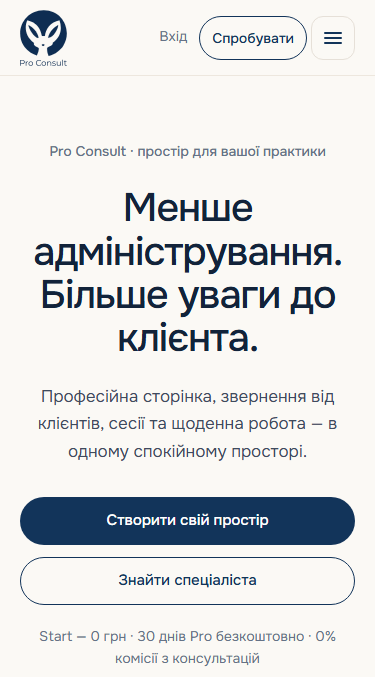
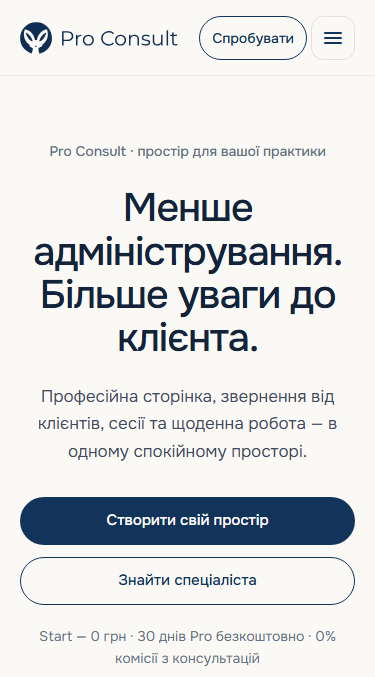
fix(ui-v2): restore horizontal header brand lockup

Changed region(s): [[0.0293, 0.0, 0.2347, 0.0931], [0.264, 0.031, 0.4987, 0.0931]]

diff --git a/src/styles/uiV2.spec.ts b/src/styles/uiV2.spec.ts
@@ -52,13 +52,13 @@ describe('UI v2 CSS contract', () => {
     }
   })
 
-  it('isolates public footer resets, accessible links and the approved stacked lockup', () => {
+  it('isolates public footer resets, accessible links and the separate header/footer lockups', () => {
     const footer = declarations(`${gate} .shell .footer.pc2-footer`)
     expect(footer.background).toBe('var(--pc-bg-main)')
     expect(footer['box-shadow']).toBe('none')
     expect(footer['border-top']).toContain('var(--pc-border-hair)')
     expect(contrast(vars['--pc-text-muted']!, vars['--pc-bg-main']!)).toBeGreaterThanOrEqual(4.5)
-    expect(declarations(`${gate} .pc2-header.topbar--guest .pc2-brand-lockup`).height).toBe('calc(var(--pc-header-logo-h) + var(--pc-space-4))')
+    expect(declarations(`${gate} .pc2-header.topbar--guest .pc2-brand-lockup`).height).toBe('var(--pc-space-8)')
     const selector = `${gate} .pc2-header.topbar--guest .nav a.pc2-header__cta`
     for (const state of ['', ':hover', ':active']) {
       const style = { ...declarations(selector), ...declarations(`${selector}${state}`) }
@@ -79,6 +79,25 @@ describe('UI v2 CSS contract', () => {
       expect(svg).toContain('<path')
       expect(svg).toContain('#0e2d52')
     }
+  })
+
+  it('composes a horizontal header from unchanged approved symbol paths and glyphs', () => {
+    const parse = (name: string) => new DOMParser().parseFromString(read(`src/assets/brand-v2/${name}.svg`), 'image/svg+xml')
+    const header = parse('proconsult-fennec-header')
+    const footer = parse('proconsult-fennec-lockup')
+    const symbol = parse('proconsult-fennec-symbol-blue')
+    expect(header.querySelector('parsererror')).toBeNull()
+    const parts = header.querySelectorAll('svg[data-brand-part]')
+    expect(parts).toHaveLength(2)
+    expect(parts[0]!.getAttribute('x')).toBe('0')
+    expect(parts[1]!.getAttribute('x')).toBe('52')
+    expect(parts[1]!.getAttribute('y')).toBe('10')
+    const attributes = (selector: string, root: ParentNode) => Array.from(root.querySelectorAll(selector), (node) =>
+      Object.fromEntries(Array.from(node.attributes, (attr) => [attr.name, attr.value])))
+    expect(attributes('path', parts[0]!)).toEqual(attributes('path', symbol))
+    expect(attributes('use', parts[1]!)).toEqual(attributes('use', footer))
+    expect(attributes('defs path', header)).toEqual(attributes('defs path', footer))
+    expect(header.querySelector('text')).toBeNull()
   })
 
   it('gates every selector branch, including nested media queries, away from v1', () => {

diff --git a/src/App.vue b/src/App.vue
@@ -14,7 +14,7 @@
     <header v-if="!useMinimalShell" :class="topbarClass">
       <div class="topbar__inner">
         <RouterLink class="brand" to="/">
-          <img v-if="usePublicHeaderV2" class="pc2-brand-lockup pc2-header__logo" :src="fennecLockup" alt="Pro Consult" />
+          <img v-if="usePublicHeaderV2" class="pc2-brand-lockup pc2-header__logo" :src="fennecHeader" alt="Pro Consult" />
           <span v-else class="brand__logo-frame">
             <img class="brand__logo brand__logo--full" :class="{ 'pc2-header__logo': usePublicHeaderV2 }" src="/brand/proconsult-logo-dark.png" alt="Pro Consult" />
             <img class="brand__logo brand__logo--mark" src="/brand/proconsult-mark.png" alt="Pro Consult" />
@@ -66,7 +66,7 @@
           Публічний профіль
         </RouterLink>
         <RouterLink v-if="!isAuthenticated && !isSpecialistOwnedSurface" class="nav__desktop-only" :class="{ 'pc2-header__link': usePublicHeaderV2 }" to="/pricing">Тарифи</RouterLink>
-        <RouterLink v-if="!isAuthenticated" :class="{ 'pc2-header__link': usePublicHeaderV2 }" to="/login">Вхід</RouterLink>
+        <RouterLink v-if="!isAuthenticated" :class="{ 'pc2-header__link pc2-header__login': usePublicHeaderV2 }" to="/login">Вхід</RouterLink>
         <RouterLink v-if="!isAuthenticated && !isSpecialistOwnedSurface" class="nav__guest-cta" :class="{ 'pc2-btn pc2-btn--primary pc2-header__cta': usePublicHeaderV2 }" to="/signup">
           <span class="nav__guest-cta-full">Спробувати безкоштовно</span>
           <span class="nav__guest-cta-short">Спробувати</span>
@@ -588,6 +588,7 @@ import { useRoute, useRouter } from 'vue-router'
 import { useAuthStore } from './stores/auth'
 import { isUiV2 } from './lib/uiVersion'
 import fennecLockup from './assets/brand-v2/proconsult-fennec-lockup.svg'
+import fennecHeader from './assets/brand-v2/proconsult-fennec-header.svg'
 import fennecSymbol from './assets/brand-v2/proconsult-fennec-symbol-blue.svg'
 import ToastHost from './components/ToastHost.vue'
 import ScrollToTopButton from './components/ScrollToTopButton.vue'

diff --git a/src/styles/components-v2.css b/src/styles/components-v2.css
@@ -217,10 +217,10 @@ html[data-ui="v2"] .pc2-input:focus-visible {
   outline-offset: var(--pc-focus-offset);
 }
 
-/* KAN-158 public brand override: approved fennec lockup retains its original
-   stacked composition and outlined Montserrat. Never affects v1/auth chrome. */
+/* KAN-158 public brand override: approved fennec and outlined Montserrat retain their geometry.
+   Header composition is horizontal; the original stacked footer stays intact. Never affects v1/auth chrome. */
 html[data-ui="v2"] .pc2-header.topbar--guest .pc2-brand-lockup {
-  display: block; height: calc(var(--pc-header-logo-h) + var(--pc-space-4));
+  display: block; height: var(--pc-header-logo-h);
   width: auto; max-width: none; flex-shrink: 0;
 }
 html[data-ui="v2"] .pc2-header.topbar--guest .nav a.pc2-header__cta {
@@ -296,7 +296,7 @@ html[data-ui="v2"] .footer .footer__logo.pc2-footer__compact-logo { height: var(
   }
   html[data-ui="v2"] .pc2-header.topbar--guest .pc2-header__audience { order: 0; flex-basis: auto; }
 }
-@media (max-width: 900px) {
+@media (max-width: 1100px) {
   html[data-ui="v2"] .pc2-header.topbar--guest .pc2-header__audience,
   html[data-ui="v2"] .pc2-header.topbar--guest .pc2-header__actions .nav__guest-catalog,
   html[data-ui="v2"] .pc2-header.topbar--guest .pc2-header__actions .nav__desktop-only { display: none; }
@@ -321,4 +321,10 @@ html[data-ui="v2"] .pc2-footer a,
 html[data-ui="v2"] .pc2-footer button {
   transition-property: color, background-color, border-color;
   transition-duration: var(--pc-dur-fast);
+}
+
+/* Preserve readable outlined type and room for the existing CTA/menu on phones. */
+@media (max-width: 640px) {
+  html[data-ui="v2"] .pc2-header.topbar--guest .pc2-brand-lockup { height: var(--pc-space-8); }
+  html[data-ui="v2"] .pc2-header.topbar--guest .pc2-header__actions .pc2-header__login { display: none; }
 }

diff --git a/src/__tests__/app.spec.ts b/src/__tests__/app.spec.ts
@@ -299,7 +299,7 @@ describe('App shell', () => {
     expect(within(header).getByRole('link', { name: 'Тарифи' })).toHaveAttribute('href', '/pricing')
     expect(within(header).getByRole('link', { name: 'Знайти спеціаліста' })).toHaveAttribute('href', '/specialists')
     expect(within(header).getByRole('link', { name: /Спробувати безкоштовно/ })).toHaveClass('pc2-btn', 'pc2-btn--primary')
-    expect(header.querySelector('.pc2-header__logo')?.getAttribute('src')).toContain('proconsult-fennec-lockup.svg')
+    expect(header.querySelector('.pc2-header__logo')?.getAttribute('src')).toContain('proconsult-fennec-header.svg')
     expect(within(header).queryByRole('button', { name: 'Меню' })).not.toBeInTheDocument()
   })
 

diff --git a/docs/ui-v2/brand/approved-fennec-2026-10-23/README.md b/docs/ui-v2/brand/approved-fennec-2026-10-23/README.md
@@ -15,18 +15,37 @@ Exact approved references retained here:
 
 PyMuPDF vector conversion (`get_svg_image(text_as_path=True)`) keeps source viewBox, all path coordinates, glyph outlines/positions, paint, strokes, transforms and negative space. Only whitespace/version/unused Inkscape layer metadata is removed. No tracing, rounding, simplified geometry, substituted font, raster logo or external font dependency. Outlined Montserrat applies to the supplied wordmark only; UI remains Onest. SVG paths/transforms/paint match the converter's original vector output exactly; PDF→SVG raster MAE at 3× is 0.348/255 lockup and 0.172/255 symbol (renderer antialiasing).
 
-Runtime assets are separately named `src/assets/brand-v2/proconsult-fennec-lockup.svg` and `proconsult-fennec-symbol-blue.svg`. Existing public/brand files, favicons, application icons and source snapshots are untouched. SVG is rendered only in guest v2 public chrome; authenticated and minimal shells retain existing presentation.
+The original stacked footer and blue-symbol assets are unchanged. A separate `src/assets/brand-v2/proconsult-fennec-header.svg` reuses their original vector components horizontally for the header. Runtime assets are separately named `src/assets/brand-v2/proconsult-fennec-lockup.svg` and `proconsult-fennec-symbol-blue.svg`. Existing public/brand files, favicons, application icons and source snapshots are untouched. SVG is rendered only in guest v2 public chrome; authenticated and minimal shells retain existing presentation.
 
 ## Scope / justified reference differences
 
 - App.vue uses the existing reactive UI flag. V1 and authenticated markup/controls retain their legacy branches. No routes/API/stores/permission/registration/Home/Profile/Discovery/Dashboard logic changes.
 - Header remains 76px, cream/hairline/Onest, audience navigation and current routes. Primary CTA uses Claude's outlined idle state and navy hover/active; current CTA wording/destination is preserved.
-- The final primary PDF is vertically stacked, unlike the old horizontal Claude logo. Preserve its complete approved composition at 56px total header height and 80px footer height, rather than distorting it into a horizontal mark or replacing its typography. The old 40px logo token remains unchanged; public lockup uses that token plus 16px. Footer watermark uses the exact approved blue symbol with decorative opacity, without recoloring/retracing it.
-- At 900px and below, a semantic disclosure navigation preserves all working public links. Native button, aria-controls/expanded, Enter/Space/Tab/Shift+Tab, Escape focus return, outside click and route/version-change closure. Existing authenticated mobile menu remains unchanged.
+- The initial implementation used the full stacked PDF at 56px in the header. The user requested a horizontal correction: unchanged symbol on the left and original outlined wordmark on the right, independently uniformly scaled/positioned. Header asset is 40px on desktop and 32px on phones; painted wordmark height is 20px/16px. No tiny wordmark remains under the header symbol. Footer retains the original 80px stacked lockup and exact blue decorative symbol without recoloring/retracing.
+- At 1100px and below, a semantic disclosure navigation preserves all working public links. Native button, aria-controls/expanded, Enter/Space/Tab/Shift+Tab, Escape focus return, outside click and route/version-change closure. Existing authenticated mobile menu remains unchanged.
 - Compact v2 footer follows the Claude cream/hairline/brand/legal-link arrangement. Extra existing product/registration links, disclaimer and privacy-preference action remain available rather than disappearing. Specialist-owned public pages retain compact legal-only content and promotion restrictions.
 - `/for-clients` is deferred to KAN-156: keep working `/#client-entry-title`. Prototype global Blog footer link has no generic current destination; no fabricated route is added. Do not apply future Public Profile/editor/support changes. KAN-160 stays HOLD; pending #54–#57/#59 and backend #63 are untouched. Backend #63's existing CI billing limitation is not resolved by this task.
 
-## Executed validation
+## Header logo correction — current acceptance
+
+The user-approved horizontal header composition supersedes the initial stacked-header decision. It uses original blue symbol paths and the primary PDF's exact Montserrat glyph outlines/positions. Nested outer viewports provide uniform scale/translation; no component path, stroke, color or negative space is redrawn. The stacked footer SVG remains byte-identical.
+
+On phones the inline duplicate login link is hidden; the same existing /login action remains available in the accessible mobile menu. The disclosure breakpoint is 1100px to accommodate the wider logo. No route, CTA destination/wording, footer behavior or v1 style changed.
+
+- App/CSS focused tests: **90/90 PASS**, including unchanged source path/glyph comparisons and distinct header/footer assets.
+- Build: **PASS**, existing chunk warning only. Typecheck: **9 unchanged baseline errors, 0 new**.
+- Chromium fixture checks: **375×677, 768×900, 1280×900, 1440×900 PASS**; header remains 76px, wordmark is horizontal/readable, no overflow, CTA/menu/focus/refresh/history retained.
+- V1 full-page screenshots and v2 footer element screenshots are **pixel-identical** before/after on all four widths. Legacy reveal transitions are settled before v1 comparison; footer capture excludes sticky-header occlusion.
+- [Correction evidence](evidence/header-correction/ACCEPTANCE.json).
+
+| Width | Before | After |
+| --- | --- | --- |
+| 375 | [Before](evidence/header-correction/before-375.png) | [After](evidence/header-correction/after-375.png) |
+| 768 | [Before](evidence/header-correction/before-768.png) | [After](evidence/header-correction/after-768.png) |
+| 1280 | [Before](evidence/header-correction/before-1280.png) | [After](evidence/header-correction/after-1280.png) |
+| 1440 | [Before](evidence/header-correction/before-1440.png) | [After](evidence/header-correction/after-1440.png) |
+
+## Initial implementation validation (before the header correction)
 
 - Focused Vitest: **115/115 PASS**, four files: App, UI v2 CSS, uiVersion and bootstrap. Includes v2 disclosure/footer/legacy restoration, role/minimal/specialist-owned boundaries and well-formed self-contained SVG checks.
 - `npm run typecheck -- --force`: **9 existing baseline diagnostics, 0 new**, independently reproduced at the exact 8754abc baseline. Existing diagnostics are in specialistDiscoveryApi.spec.ts, AdminWorkQueueView.spec.ts/vue and TherapistClientsView.spec.ts/vue. No unrelated debt fixed.

diff --git a/docs/DESIGN_SYSTEM.md b/docs/DESIGN_SYSTEM.md
@@ -2,7 +2,7 @@
 
 ## Approved UI v2 brand override — KAN-158 (2026-10-23)
 
-The user-approved minimalist fennec in `logo.rar` supersedes older Claude artwork for the public UI v2 header/footer. Preserve the exact primary PDF lockup, outlined Montserrat wordmark, symbol geometry/negative space and supplied colors; UI typography/layout/navigation still follow Claude v5. See [source PDFs, hashes, conversion and acceptance](ui-v2/brand/approved-fennec-2026-10-23/README.md). Keep separately named v2 assets; preserve existing v1 logos, global icons/favicons and all runtime/product safeguards. This override does not authorize replacing brand artwork inside other pages or source snapshots.
+The user-approved minimalist fennec in `logo.rar` supersedes older Claude artwork for the public UI v2 header/footer. Preserve the original PDF symbol/glyph geometry, negative space and supplied colors; use the user-approved horizontal header composition and retain the original stacked footer lockup. The Montserrat wordmark remains outlined; UI typography/layout/navigation still follow Claude v5. See [source PDFs, hashes, conversion and acceptance](ui-v2/brand/approved-fennec-2026-10-23/README.md). Keep separately named v2 assets; preserve existing v1 logos, global icons/favicons and all runtime/product safeguards. This override does not authorize replacing brand artwork inside other pages or source snapshots.
 
 ## Current supplied snapshot — v5 incremental overlay
 
